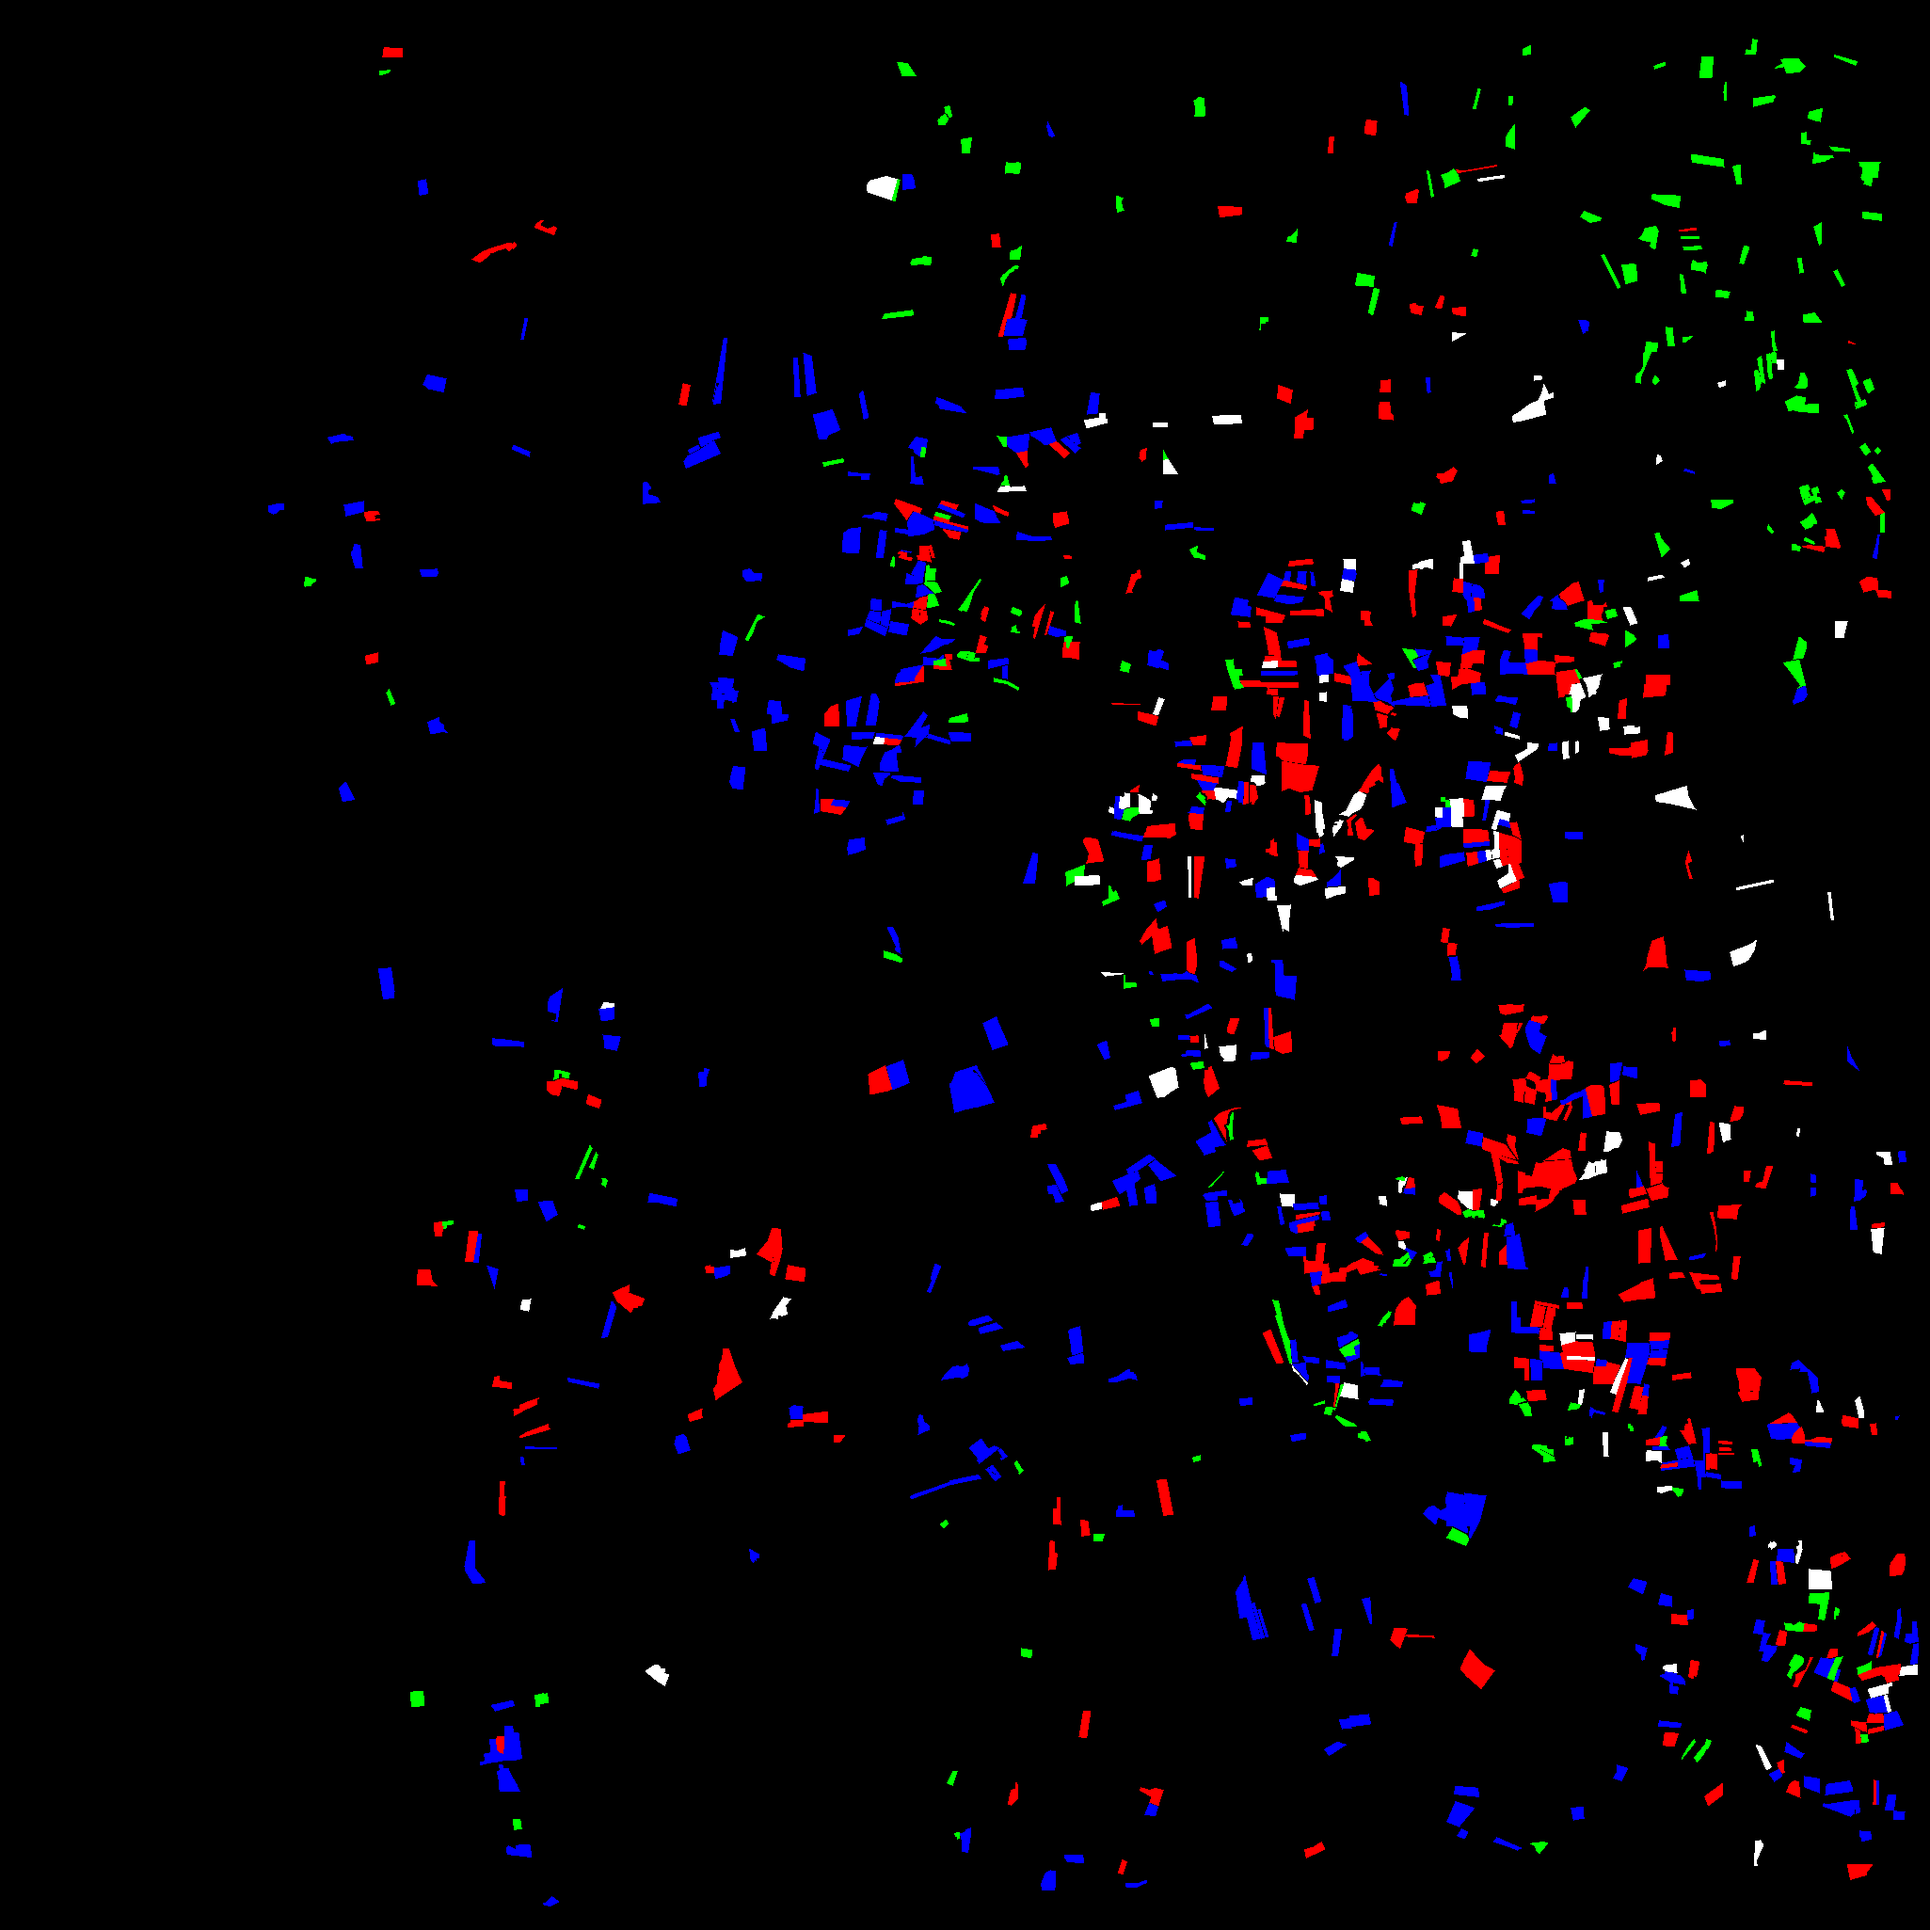
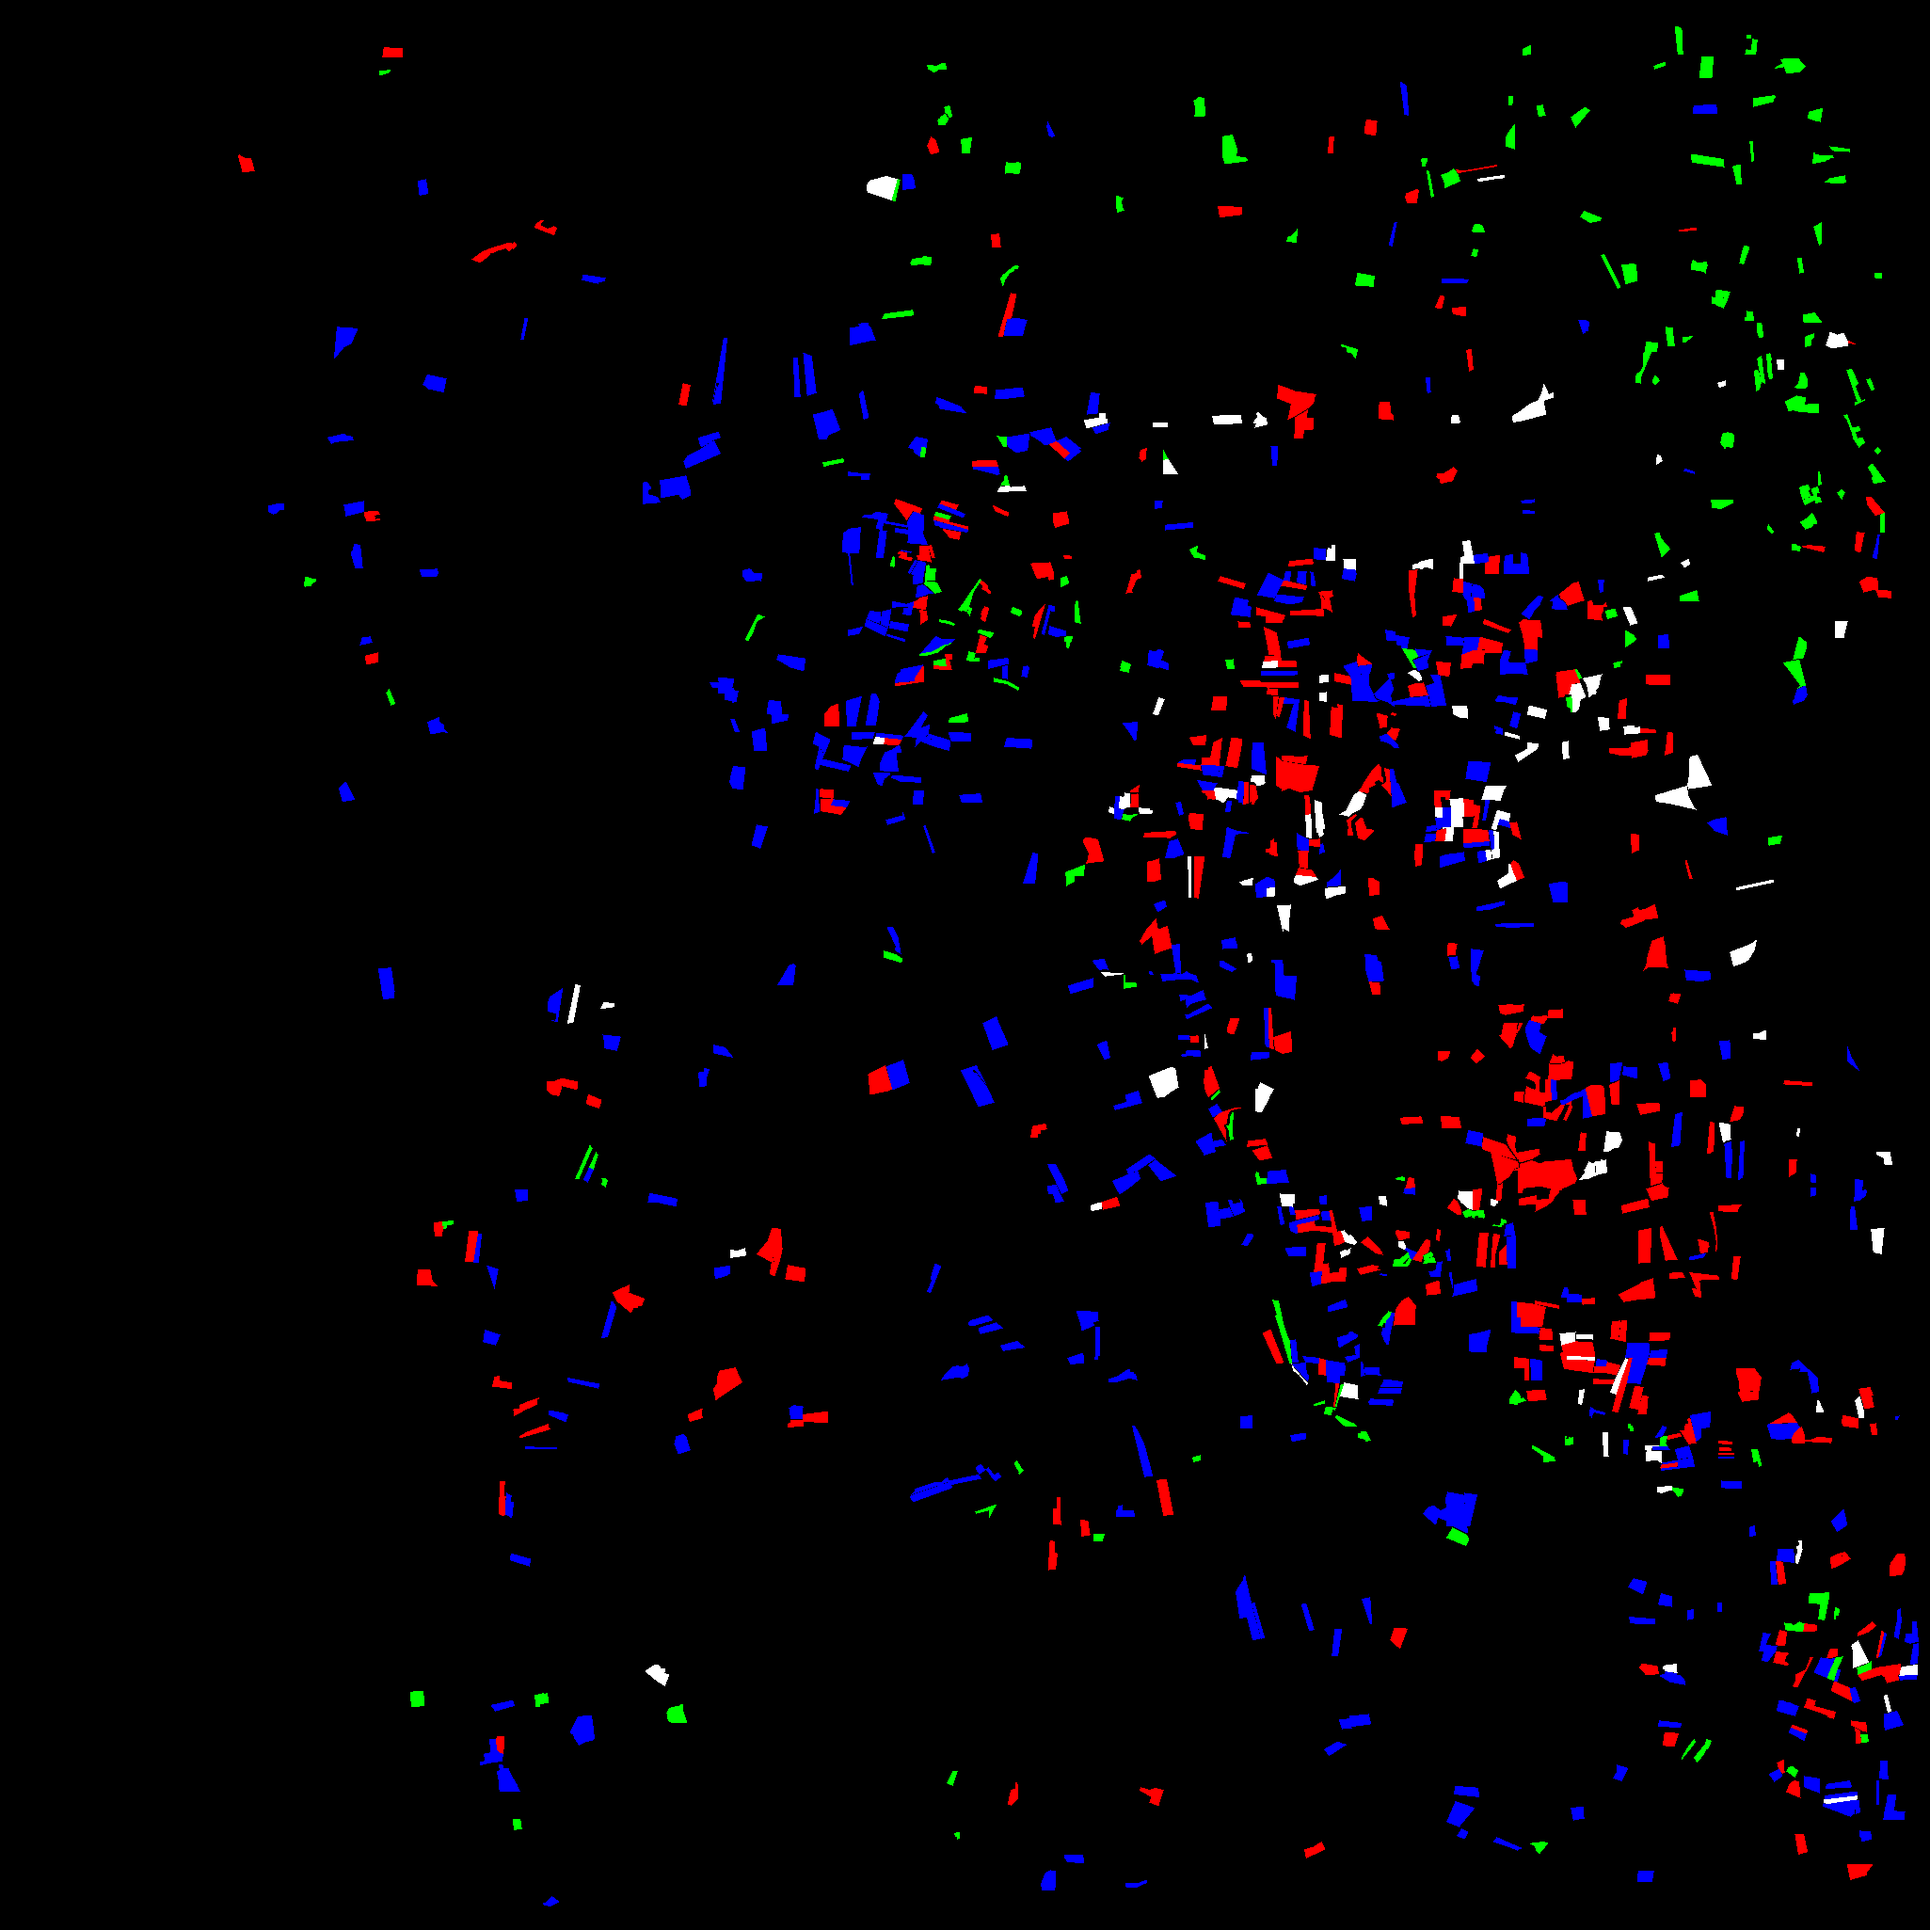
v1

diff --git a/generate_data.py b/generate_data.py
@@ -64,33 +64,28 @@ def random_crop_data(crop_size, img, label):
 
 if __name__ == "__main__":
 
-    paths = get_raw_data_paths('2021', '20210106')
-    combined = combine_spectrum(paths)
-
-    print(combined.shape) #(2051, 2051, 12)
     
     train_label = np.load("raw_data/train_label.npy") # generated from generate_mask.py
     val_label = np.load("raw_data/val_label.npy")
 
-    img1, label1 = random_crop_data(crop_size=500, img=combined, label=train_label)
-    print(img1.shape)
-    print(label1.shape)
-
-    # selected without cloud
     days = [20210101
             ,20210106
             ,20210111
             ,20210116
             ,20210126
             ,20210205
-            ,20210215
-            ,20210220
-            ,20210307
-            ,20210312
-            ,20210327
-            ,20210416
-            ,20210705]
+            ,20210215]
+            #,20210220
+            #,20210307
+            #,20210312
+            #,20210327
+            #,20210416
+            #,20210705]
     day_idx = 0
+
+    train_label = np.load("raw_data/train_label.npy") # generated from generate_mask.py
+    val_label = np.load("raw_data/val_label.npy")
+
     for day in days:
         paths = get_raw_data_paths('2021', str(day))
         combined = combine_spectrum(paths)

diff --git a/generate_mask.py b/generate_mask.py
@@ -128,10 +128,10 @@ if __name__ == "__main__":
     testing_shape_path = "raw_data/testing_area/"
 
     with rasterio.open(raster_path, "r") as src:
-        #poly_shp_train, poly_shp_val = generate_mask(training_shape_path, src)
+        poly_shp_train, poly_shp_val = generate_mask(training_shape_path, src)
 
-        #package(poly_shp_train, 'v2_train_', src)
-        #package(poly_shp_val, 'v2_val_', src)
+        package(poly_shp_train, 'raw_data/train_', src)
+        package(poly_shp_val, 'raw_data/val_', src)
 
         poly_shp_test = generate_mask(testing_shape_path, src, test=True)
         im_size = (src.meta['height'], src.meta['width'])

diff --git a/unit_test.py b/unit_test.py
@@ -1,0 +1,6 @@
+import numpy as np
+
+for i in range(200):
+    x = np.load(f'data/train/img/{i}.npy')
+    print(np.min(x))
+    print(np.max(x))
